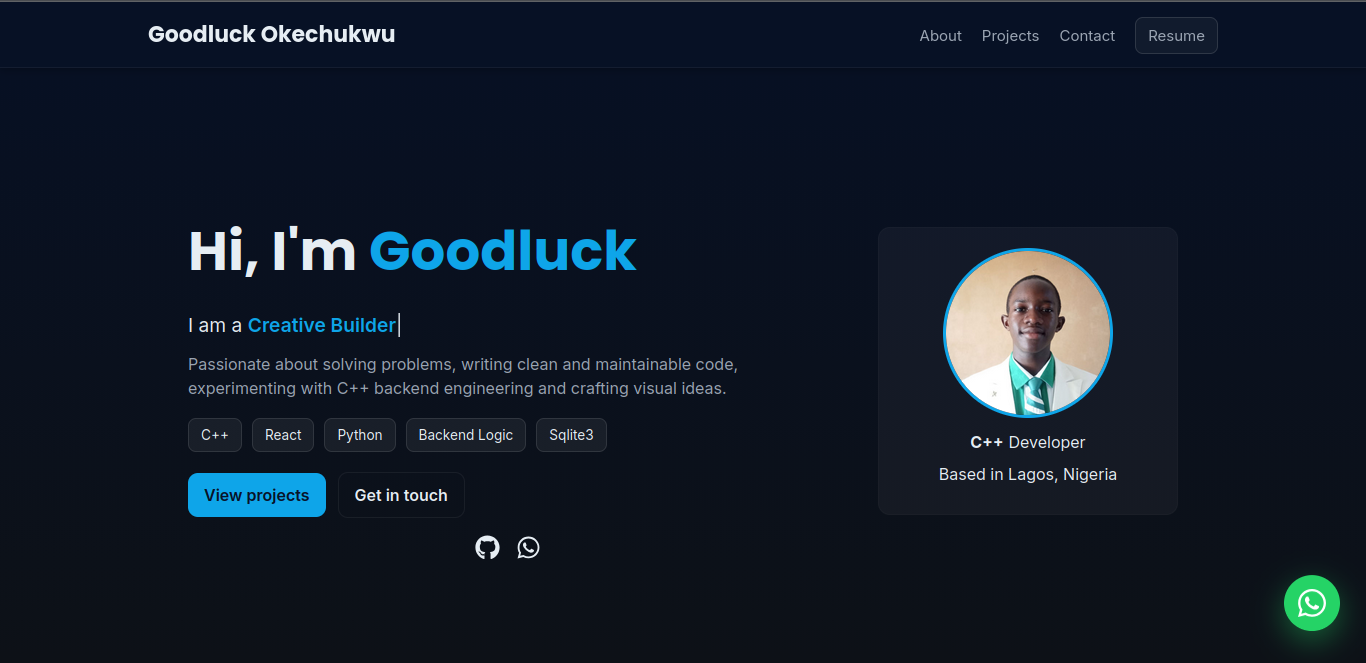
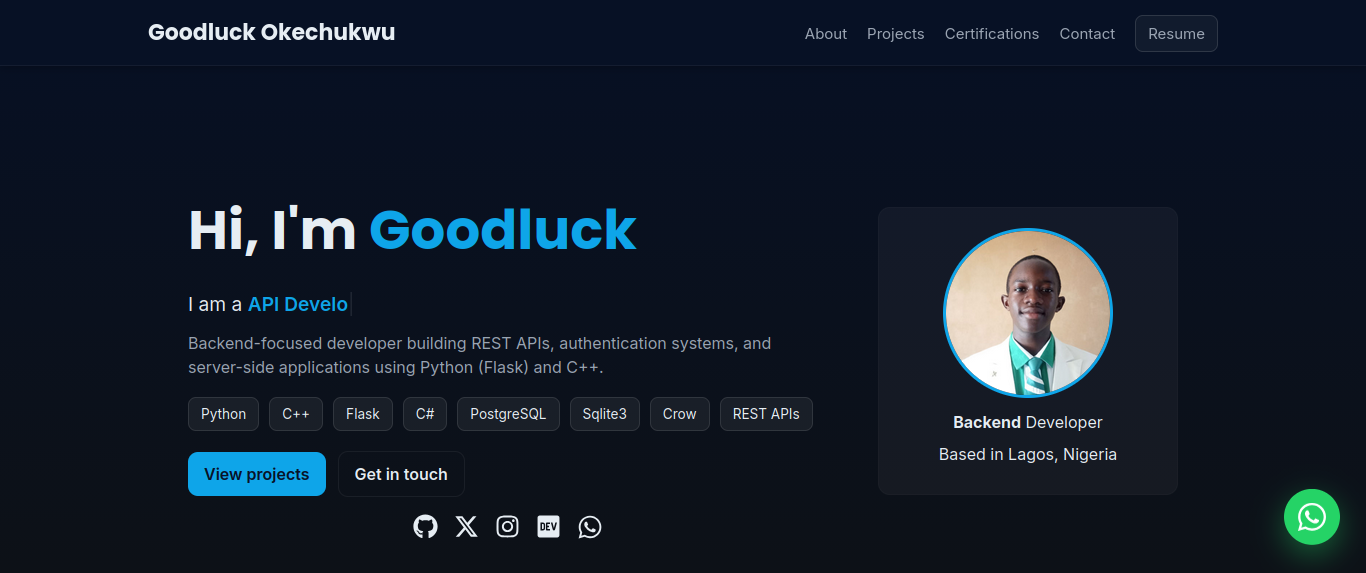
Updated my projects and certificates

diff --git a/src/components/Projects/Projects.tsx b/src/components/Projects/Projects.tsx
@@ -11,6 +11,7 @@ import projJob from "../../assets/proj_job.png";
 import projHealthShield from "../../assets/proj_health_shield.png";
 import projFarmDrive from "../../assets/proj_farmdrive.png";
 import projForge from "../../assets/proj_forge.png";
+import projLucidify from "../../assets/proj_lucidify.png"
 
 type Project = {
   title: string;
@@ -21,10 +22,23 @@ type Project = {
   github?: string;
   live?: string;
   hackathon?: string;
+  range?: string;
   hackathon_link?: string;
 };
 
 const projects: Project[] = [
+  {
+    title: "Lucidify",
+    stack: "Backend",
+    description:
+      "Built the backend for Lucidify — a Flask-powered engine that automates CAC compliance for Nigerian businesses. From custom PDF generation to automated reminder scheduling, I engineered the logic that keeps small businesses penalty-free.",
+    tech: ["Python", "Flask", "Sqlite3", "Groq API", "Llama3 LLM", "PyPDF"],
+    image: projLucidify,
+    github: "https://github.com/Okesh101/Lucidify",
+    live: "https://lucidify2.netlify.app/",
+    hackathon: "Code4Justice Hackathon",
+    range: "Apr - May 2026",
+  },
   {
     title: "FarmDrive",
     stack: "Backend",
@@ -33,8 +47,9 @@ const projects: Project[] = [
     tech: ["Python", "Flask", "Sqlite3", "Groq API", "Flask-SocketIO"],
     image: projFarmDrive,
     github: "https://github.com/Marvel123g/FarmDrive",
-    live: "https://farmdrive.vercel.app/",
-    hackathon: "Enyata Community Buildathon 2026",
+    live: "https://farmdrive.netlify.app/",
+    hackathon: "Enyata Community Buildathon",
+    range: "Mar - Apr 2026",
     hackathon_link: "https://buildathon.enyata.com/",
   },
   {
@@ -46,7 +61,8 @@ const projects: Project[] = [
     image: projHealthShield,
     github: "https://github.com/Okesh101/Health-Shield",
     live: "https://health-shield-black.vercel.app/",
-    hackathon: "Cavista Technologies Hackathon 2026",
+    hackathon: "Cavista Technologies Hackathon",
+    range: "Feb 2026",
     hackathon_link:
       "https://devpost.com/software/medintel-nyo2l9?ref_content=my-projects-tab&ref_feature=my_projects",
   },
@@ -59,7 +75,8 @@ const projects: Project[] = [
     image: projForge,
     github: "https://github.com/Okesh101/Forge",
     live: "https://forge2ai.vercel.app/",
-    hackathon: "Google Gemini3 Hackathon 2026",
+    hackathon: "Google Gemini3 Hackathon",
+    range: "Dec - Feb 2026",
     hackathon_link:
       "https://devpost.com/software/gemini-api-app?ref_content=my-projects-tab&ref_feature=my_projects",
   },
@@ -98,7 +115,7 @@ const projects: Project[] = [
     tech: ["React", "TypeScript", "CSS", "EmailJS"],
     image: projPortfolio,
     github: "https://github.com/Okesh101/My-Portfolio",
-    live: "https://Okesh101.github.io/My-Portfolio/",
+    live: "https://okesh101.github.io/My-Portfolio/",
   },
   {
     title: "Exam Portal",
@@ -187,6 +204,11 @@ export default function Projects() {
                     {p.hackathon}
                   </a>
                 )}
+              </div>
+              <div className="proj-date-wrap">
+                <div className="project-date">
+                  {p.range && <span className="proj-date-tag">{p.range}</span>}
+                </div>
               </div>
             </div>
           </article>

diff --git a/src/components/Certifications/Certifications.tsx b/src/components/Certifications/Certifications.tsx
@@ -4,6 +4,8 @@ import "./Certifications.css";
 import certIntroCsharp from "../../assets/cert_introCsharp.jpg";
 import certIntermCsharp from "../../assets/cert_intermCsharp.jpg";
 import certGetConnect from "../../assets/cert_getConnected.jpg";
+import certCyberSec from "../../assets/cert_cyberSecurity.jpg";
+import certEnyata from "../../assets/cert_enyataHack.jpg";
 
 interface Certificate {
   title: string;
@@ -15,11 +17,18 @@ interface Certificate {
 
 const certs: Certificate[] = [
   {
-    title: "Introduction to C#",
-    issuer: "Sololearn",
-    date: "Feb 2026",
-    stack: ["C#"],
-    img: certIntroCsharp,
+    title: "Enyata Hackathon Participant",
+    issuer: "Interswitch & Enyata",
+    date: "Mar - Apr 2026",
+    stack: ["Hackathon", "Problem Solving"],
+    img: certEnyata,
+  },
+  {
+    title: "Cybersecurity Essentials",
+    issuer: "JGIYC Digital Economy Training Academy",
+    date: "Mar 2026",
+    stack: ["CyberSecurity", "Kali Linux"],
+    img: certCyberSec,
   },
   {
     title: "C# Intermediate",
@@ -27,6 +36,13 @@ const certs: Certificate[] = [
     date: "Feb 2026",
     stack: ["C#"],
     img: certIntermCsharp,
+  },
+  {
+    title: "Introduction to C#",
+    issuer: "Sololearn",
+    date: "Feb 2026",
+    stack: ["C#"],
+    img: certIntroCsharp,
   },
   {
     title: "Get Connected",

diff --git a/src/components/Projects/Projects.css b/src/components/Projects/Projects.css
@@ -22,7 +22,14 @@
 .project-card {
   background: var(--panel);
   border: 1px solid rgba(255,255,255,0.05);
-  border-radius: 14px;
+  /* Top corners (Square) */
+  border-top-left-radius: 0px;
+  border-top-right-radius: 0px;
+
+  /* Bottom corners (Rounded) */
+  border-bottom-left-radius: 14px;
+  border-bottom-right-radius: 14px;
+
   overflow: hidden;
   transition: transform .25s ease, box-shadow .25s ease;
 }
@@ -43,6 +50,8 @@
 /* Body */
 .project-body {
   padding: 18px;
+  display: flex;
+  flex-direction: column;
 }
 
 .project-body h3 {
@@ -151,6 +160,31 @@
   font-size: 12px;
   font-style: italic;
   padding-top: 10px;
+}
+
+.proj-date-wrap {
+  /* margin-top: 10px; */
+  position: relative;
+  /* display: flex; */
+  /* justify-content: space-between; */
+  /* gap: 25px; */
+}
+
+.project-date {
+  position: absolute;
+  bottom: 0;
+  right: 0;
+  /* display: flex; */
+  /* gap: 10px; */
+}
+
+.proj-date-tag {
+  font-size: 0.7rem;
+  padding: 2px 8px;
+  border-radius: 4px;
+  background: rgba(14, 165, 233, 0.1);
+  color: var(--accent);
+  border: 1px solid rgba(14, 165, 233, 0.3);
 }
 
 .project-hackathon a {
